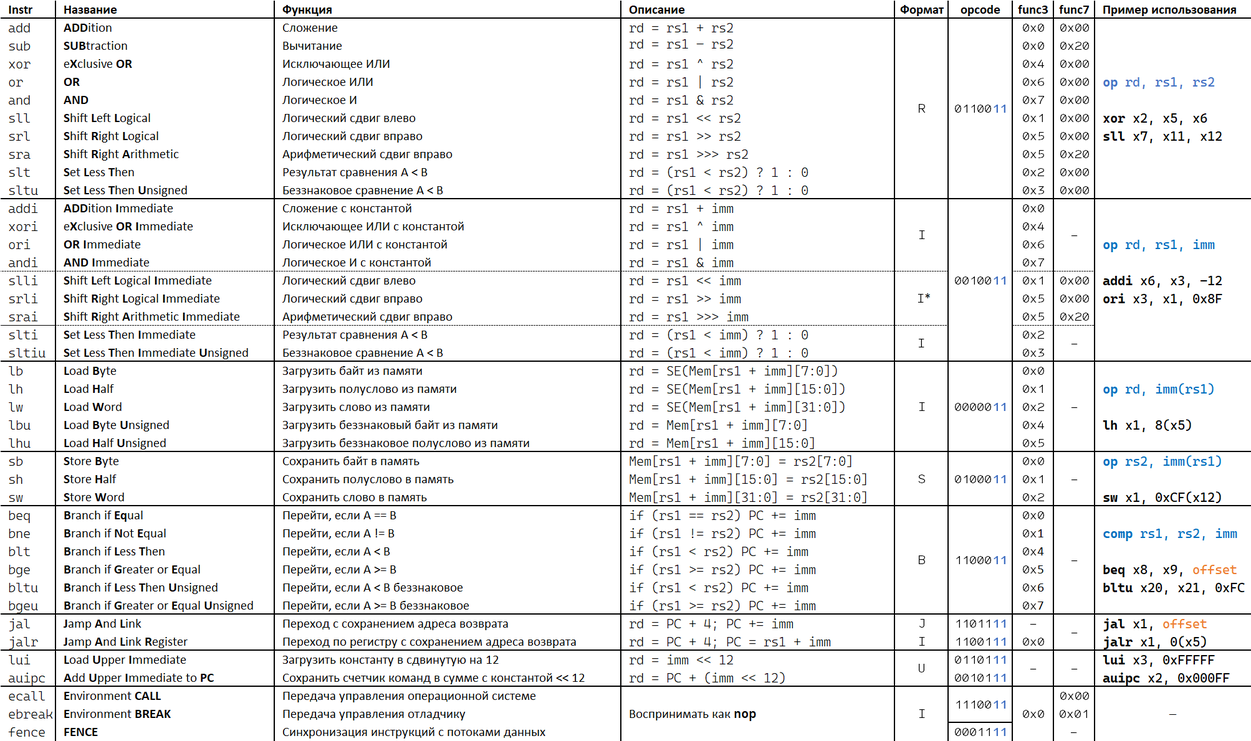
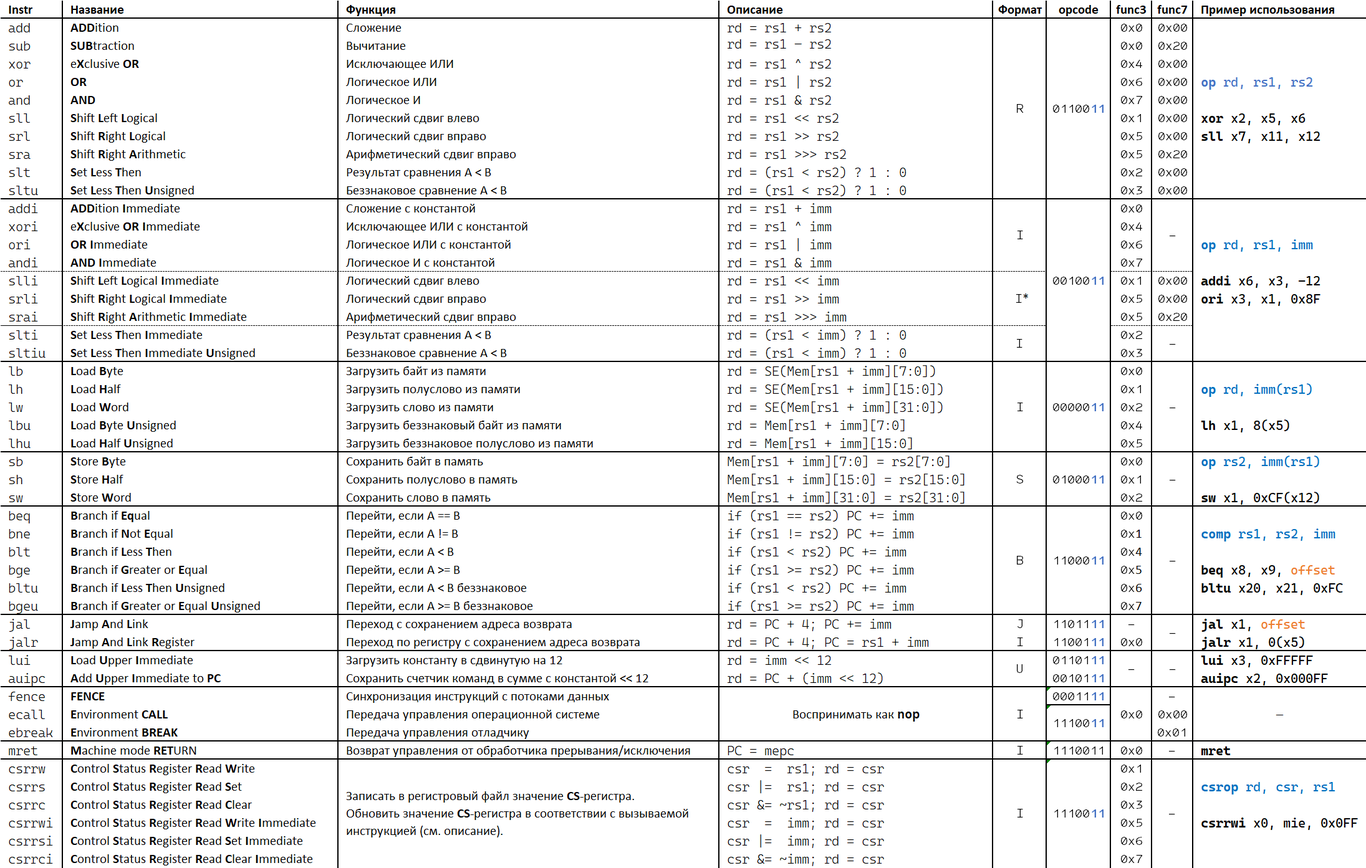
ЛР5. Обновление методички
Добавлена поддержка инструкций CSR + mret, чтобы в последствии не
возвращаться к этому модулю.

Changed region(s): [[0.0, 0.0, 1.0, 0.995], [0.7105, 0.2176, 0.7723, 0.2798]]

diff --git a/Labs/05. Main decoder/README.md b/Labs/05. Main decoder/README.md
@@ -37,7 +37,9 @@
 
 ![../../.pic/Labs/lab_05_decoder/rv32i_BIS.png](../../.pic/Labs/lab_05_decoder/rv32i_BIS.png)
 
-*Таблица 1. Базовый набор инструкций из [спецификации RISC-V](https://github.com/riscv/riscv-isa-manual/releases/download/Ratified-IMAFDQC/riscv-spec-20191213.pdf) (стр. 130)*
+*Таблица 1. Базовый набор инструкций из [спецификации RISC-V](https://github.com/riscv/riscv-isa-manual/releases/download/Ratified-IMAFDQC/riscv-spec-20191213.pdf) (стр. 130), Стандартное расширение Zicsr(стр. 131), а так же привилегированная инструкция mret([спецификация привилегированной архитектуры RISC-V](https://github.com/riscv/riscv-isa-manual/releases/download/riscv-isa-release-1239329-2023-05-23/riscv-privileged.pdf), стр. 144)*
+
+
 
 | Кодирование |                                              Описание                                                                                                         |
 |-------------|---------------------------------------------------------------------------------------------------------------------------------------------------------------|
@@ -50,13 +52,28 @@
 
 *Таблица 2. Описание типов форматов кодирования инструкций ISA RISC-V*
 
-### Неподдерживаемые инструкции
+### SYSTEM-инструкции
 
-В базовом наборе инструкций **RISC-V** к операциям `SYSTEM` относятся `ECALL` и `EBREAK`, к операциям `MISC-MEM` – операция `FENCE`. В реализуемом процессорном ядре эти инструкции не должны приводить ни к каким изменениям. Иначе говоря, они должны быть реализованы как инструкция `NOP` (**no operation**).
-Инструкция `FENCE` в **RISC-V** необходима при работе с несколькими аппаратными потоками, или хартами (hart – «hardware thread»). В **RISC-V** используется расслабленная модель памяти (**relaxed memory model**): потоки «видят» все инструкции чтения и записи, которые исполняются другими потоками, однако видимый порядок этих инструкций может отличаться от реального. Инструкция `FENCE`, использованная между двумя инструкциями чтения и/или записи гарантирует, что остальные потоки увидят первую инструкцию перед второй. Реализация `FENCE` является опциональной в **RISC-V** и в данном случае в ней нет необходимости, так как в системе не предполагается наличия нескольких аппаратных потоков.
-Инструкции `ECALL` и `EBREAK` должны вызывать исключение с последующим переходом в обработчик исключения (вызова операционной системы и перехода в привилегированный режим работы). Помимо этого, их вызов должен обновить содержимое некоторых управляющих регистров (**Control & Status Registers** – **CSR**). На текущий момент эти инструкции не будут использоваться, а потому могут быть реализованы как `NOP`.
+SYSTEM-инструкции используются для доступа к системным функциям и могут требовать привилегированный доступ. Данные инструкции могут быть разделены на два класса:
 
-Список инструкций с указанием их типов и функциональным назначением:
+- Обращение к регистрам статуса и контроля (**CSR**)
+- Все остальные инструкции (возможно из набора привилегированных инструкций)
+
+Для будущей поддержки прерываний, нам потребуется декодировать инструкции обоих классов.
+
+Обращение к регистрам статуса и контроля осуществляется шестью инструкциями стандартного расширения `Zicsr`. Каждая из этих инструкций (если у нее легальные поля) осуществляет запись в CS-регистры и регистровый файл.
+
+Кроме того, для возврата управления основному потоку инструкций, нужна дополнительная `SYSTEM`-инструкция привилегированного набора команд `MRET`.
+
+Единственное что нужно сделать при появлении этой инструкции — это сформировать единицу на одноименном выходе.
+
+Перечисленные выше инструкции являются "дополнительными" — их намеренно их добавили сверх стандартного набора инструкций, чтобы обеспечить требуемый нашей системе функционал. Однако осталось ещё две SYSTEM-инструкции, которые мы должны уметь декодировать, поскольку они есть в стандартном наборе инструкций.
+
+Инструкции `ECALL` и `EBREAK` должны вызывать исключение. Единственное исключение, которое будет поддерживаться нашей системой, это исключение через сигнал `illegal_instr_o`, поэтому в рамках данного цикла лабораторных работ вам предлагается выставлять `illegal_instr_o == 1`, когда приходят эти инструкции (что довольно легко описать, ведь получается что если SYSTEM-инструкция не является `MRET` либо инструкцией из набора `Zicsr`, то это либо нелегальная инструкция, либо `ECALL` / `EBREAK`, которые ведут себя точно так же как и нелегальная инструкция).
+
+### MISC-MEM инструкция
+
+В базовом наборе инструкций **RISC-V** к `MISC-MEM`-операции относится инструкция `FENCE`. В реализуемом процессорном ядре эта инструкция не должны приводить ни к каким изменениям. Инструкция `FENCE` в **RISC-V** необходима при работе с несколькими аппаратными потоками, или хартами (hart – «hardware thread»). В **RISC-V** используется расслабленная модель памяти (**relaxed memory model**): потоки «видят» все инструкции чтения и записи, которые исполняются другими потоками, однако видимый порядок этих инструкций может отличаться от реального. Инструкция `FENCE`, использованная между двумя инструкциями чтения и/или записи гарантирует, что остальные потоки увидят первую инструкцию перед второй. Реализация `FENCE` является опциональной в **RISC-V** и в данном случае в ней нет необходимости, так как в системе не предполагается наличия нескольких аппаратных потоков. Данная инструкция должна быть реализована как `NOP` (no operation).
 
 ![../../.pic/Labs/lab_05_decoder/rv32i_summary.png](../../.pic/Labs/lab_05_decoder/rv32i_summary.png)
 
@@ -70,11 +87,11 @@
 
 Приведенная архитектура не является заданием для текущей лабораторной работы, лишь отражает то, как в дальнейшем будет подключаться и использоваться реализуемый в данной лабораторной основной дешифратор.
 
-![../../.pic/Labs/lab_06_dp/fig_01.drawio.png](../../.pic/Labs/lab_06_dp/fig_01.drawio.png)
+![../../.pic/Labs/lab_11_irq_integration/fig_01.drawio.png](../../.pic/Labs/lab_11_irq_integration/fig_01.drawio.png)
 
 Предложенная микроархитектура процессора `CYBERcobra 3000 Pro 2.0` из прошлой лабораторной имеет схожую структуру, с некоторыми изменениями.
 
-В первую очередь изменились входы и выходы процессора:
+В первую очередь изменились входы и выходы процессора (помимо появления двух непонятных модулей):
 
 - память инструкций вынесена наружу процессора, таким образом, у процессора появляются входы и выходы: `instr_addr_o` и `instr_i`;
 - помимо прочего, у модуля появились сигналы интерфейса памяти данных:
@@ -88,7 +105,7 @@
 
 Так же добавились источники операндов АЛУ: программный счетчик, множество констант из инструкций и микроархитектурных констант. Выбор нужных операндов для АЛУ осуществляется с помощью двух мультиплексоров, управляемых сигналами декодера `src_a_op_sel_o` и `src_b_op_sel_o` (для краткости на схеме обозначены как `src_a_sel` и `src_b_sel`).
 
-Изменилось и число источников записи в регистровый файл: их осталось два: результат операции на АЛУ и данные, считанные с внешней памяти. Выборка осуществляется сигналом декодера `wb_sel_o`.
+Изменилось и число источников записи в регистровый файл: их стало 3: результат операции на АЛУ, данные, считанные с внешней памяти и данные из модуля регистров статуса и контроля. Выборка осуществляется сигналом декодера `wb_sel_o`.
 
 ### Интерфейс памяти
 
@@ -119,7 +136,7 @@
 
 Несмотря на то, что для записи во внешнюю память ключевыми сигналами будут описанные выше, это не означает, что остальные выходные сигналы декодера могут быть абы какими.
 
-Поскольку операция `lw` не является операцией перехода, сигналы `jal_o`, `jalr_o` и `branch_o` должны быть равны нулю (иначе процессор совершит переход, а инструкция `lw` этого не подразумевает). Точно так же, поскольку во время записи во внешнюю память, в регистровый файл не должно быть ничего записано, сигнал `gpr_we_o` так же должен быть равен нулю.
+Поскольку операция `lw` не является операцией перехода, сигналы `jal_o`, `jalr_o` и `branch_o` должны быть равны нулю (иначе процессор совершит переход, а инструкция `lw` этого не подразумевает). Точно так же, поскольку во время записи во внешнюю память, в регистровый файл не должно быть ничего записано, сигналы `gpr_we_o` и `csr_we_o` так же должны быть равны нулю.
 
 А вот сигнал `wb_sel` может принять любое значение (поскольку сигнал разрешения записи в регистровый файл равен нулю, не важно, каким будет источник данных для записи в регистровый файл, т.к. в него все равно ничего не будет записано).
 
@@ -131,6 +148,8 @@
 |a_sel_o         |Управляющий сигнал мультиплексора для выбора первого операнда АЛУ                               |
 |b_sel_o         |Управляющий сигнал мультиплексора для выбора второго операнда АЛУ                               |
 |alu_op_o        |Операция АЛУ                                                                                    |
+|csr_op_o        |Операция модуля CSR                                                                             |
+|csr_we_o        |Разрешение на запись в CSR                                                                      |
 |mem_req_o       |Запрос на доступ к памяти (часть интерфейса памяти)                                             |
 |mem_we_o        |Сигнал разрешения записи в память, «write enable» (при равенстве нулю происходит чтение)        |
 |mem_size_o      |Управляющий сигнал для выбора размера слова при чтении-записи в память (часть интерфейса памяти)|
@@ -140,6 +159,7 @@
 |branch_o        |Сигнал об инструкции условного перехода                                                         |
 |jal_o           |Сигнал об инструкции безусловного перехода jal                                                  |
 |jalr_o          |Сигнал об инструкции безусловного перехода jalr                                                 |
+|mret_o          |Сигнал об инструкции возврата из прерывания/исключения mret                                     |
 
 Единственным входным сигналом этого модуля является `fetched_instr_i`.
 
@@ -148,22 +168,23 @@
 - неравенства двух младших битов opcode значению `11`;
 - некорректного значения `func3` или `func7` для данной операции;
 - если значение `opcode` не совпадает ни с одним из известных и следовательно операция не определена.
+- если это инструкция `ECALL` / `EBREAK`.
 
 При реализации декодера его удобнее описывать разбив все инструкции на однотипные группы, как это сделано ниже. Коды операций в таблице 5-битные потому, что 2 младших бита полноценного 7-битного кода операции должны отдельно проверяться и быть равны `11`
 
-|Операция|Opcode|                                       Описание операции                                      |          Краткая запись            |
-|--------|------|----------------------------------------------------------------------------------------------|------------------------------------|
-|OP      |01100 |Записать в `rd` результат вычисления АЛУ над `rs1` и `rs2`                                    |`rd = alu_op(rs1, rs2)`             |
-|OP_IMM  |00100 |Записать в `rd` результат вычисления АЛУ над `rs1` и `imm`                                    |`rd = alu_op(rs1, imm)`             |
-|LUI     |01101 |Записать в `rd` значение непосредственного операнда U-типа `imm_u`                            |`rd = imm << 12`                    |
-|LOAD    |00000 |Записать в `rd` данные из памяти по адресу `rs1+imm`                                          |`rd = Mem[rs1 + imm]`               |
-|STORE   |01000 |Записать в память по адресу `rs1+imm` данные из `rs2`                                         |`Mem[rs1 + imm] = rs2`              |
-|BRANCH  |11000 |Увеличить счетчик команд на значение `imm`, если верен результат сравнения `rs1` и `rs2`      |`if cmp_op(rs1, rs2) then PC += imm`|
-|JAL     |11011 |Записать в `rd` следующий адрес счетчика команд, увеличить счетчик команд на значение `imm`   |`rd = PC + 4; PC += imm`            |
-|JALR    |11001 |Записать в `rd` следующий адрес счетчика команд, в счетчик команд записать `rs1+imm`          |`rd = PC + 4; PC = rs1+imm`         |
-|AUIPC   |00101 |Записать в `rd` результат сложения непосредственного операнда U-типа `imm_u` и счетчика команд|`rd = PC + (imm << 12)`             |
-|MISC-MEM|00011 |Не производить операцию                                                                       | `-`                                |
-|SYSTEM  |11100 |Не производить операцию                                                                       | `-`                                |
+|Операция|Opcode|                                       Описание операции                                               |          Краткая запись            |
+|--------|------|-------------------------------------------------------------------------------------------------------|------------------------------------|
+|OP      |01100 |Записать в `rd` результат вычисления АЛУ над `rs1` и `rs2`                                             |`rd = alu_op(rs1, rs2)`             |
+|OP_IMM  |00100 |Записать в `rd` результат вычисления АЛУ над `rs1` и `imm`                                             |`rd = alu_op(rs1, imm)`             |
+|LUI     |01101 |Записать в `rd` значение непосредственного операнда U-типа `imm_u`                                     |`rd = imm << 12`                    |
+|LOAD    |00000 |Записать в `rd` данные из памяти по адресу `rs1+imm`                                                   |`rd = Mem[rs1 + imm]`               |
+|STORE   |01000 |Записать в память по адресу `rs1+imm` данные из `rs2`                                                  |`Mem[rs1 + imm] = rs2`              |
+|BRANCH  |11000 |Увеличить счетчик команд на значение `imm`, если верен результат сравнения `rs1` и `rs2`               |`if cmp_op(rs1, rs2) then PC += imm`|
+|JAL     |11011 |Записать в `rd` следующий адрес счетчика команд, увеличить счетчик команд на значение `imm`            |`rd = PC + 4; PC += imm`            |
+|JALR    |11001 |Записать в `rd` следующий адрес счетчика команд, в счетчик команд записать `rs1+imm`                   |`rd = PC + 4; PC = rs1+imm`         |
+|AUIPC   |00101 |Записать в `rd` результат сложения непосредственного операнда U-типа `imm_u` и счетчика команд         |`rd = PC + (imm << 12)`             |
+|MISC-MEM|00011 |Не производить операцию                                                                                | `-`                                |
+|SYSTEM  |11100 |Записать в `rd` значение `csr`. Обновить значение `csr` с помощью `rs1`. (либо `mret`/`ecall`/`ebreak`)|`csr  = csr_op(rs1); rd = csr`      |
 
 ## Инструменты
 
@@ -225,15 +246,18 @@ module decoder_riscv (
   output logic [1:0]   a_sel_o,
   output logic [2:0]   b_sel_o,
   output logic [4:0]   alu_op_o,
+  output logic [2:0]   csr_op_o,
+  output logic         csr_we_o,
   output logic         mem_req_o,
   output logic         mem_we_o,
   output logic [2:0]   mem_size_o,
   output logic         gpr_we_o,
-  output logic         wb_sel_o,        //write back selector
+  output logic [1:0]   wb_sel_o,        //write back selector
   output logic         illegal_instr_o,
   output logic         branch_o,
   output logic         jal_o,
-  output logic         jalr_o
+  output logic         jalr_o,
+  output logic         mret
 );
   import riscv_pkg::*;
 
